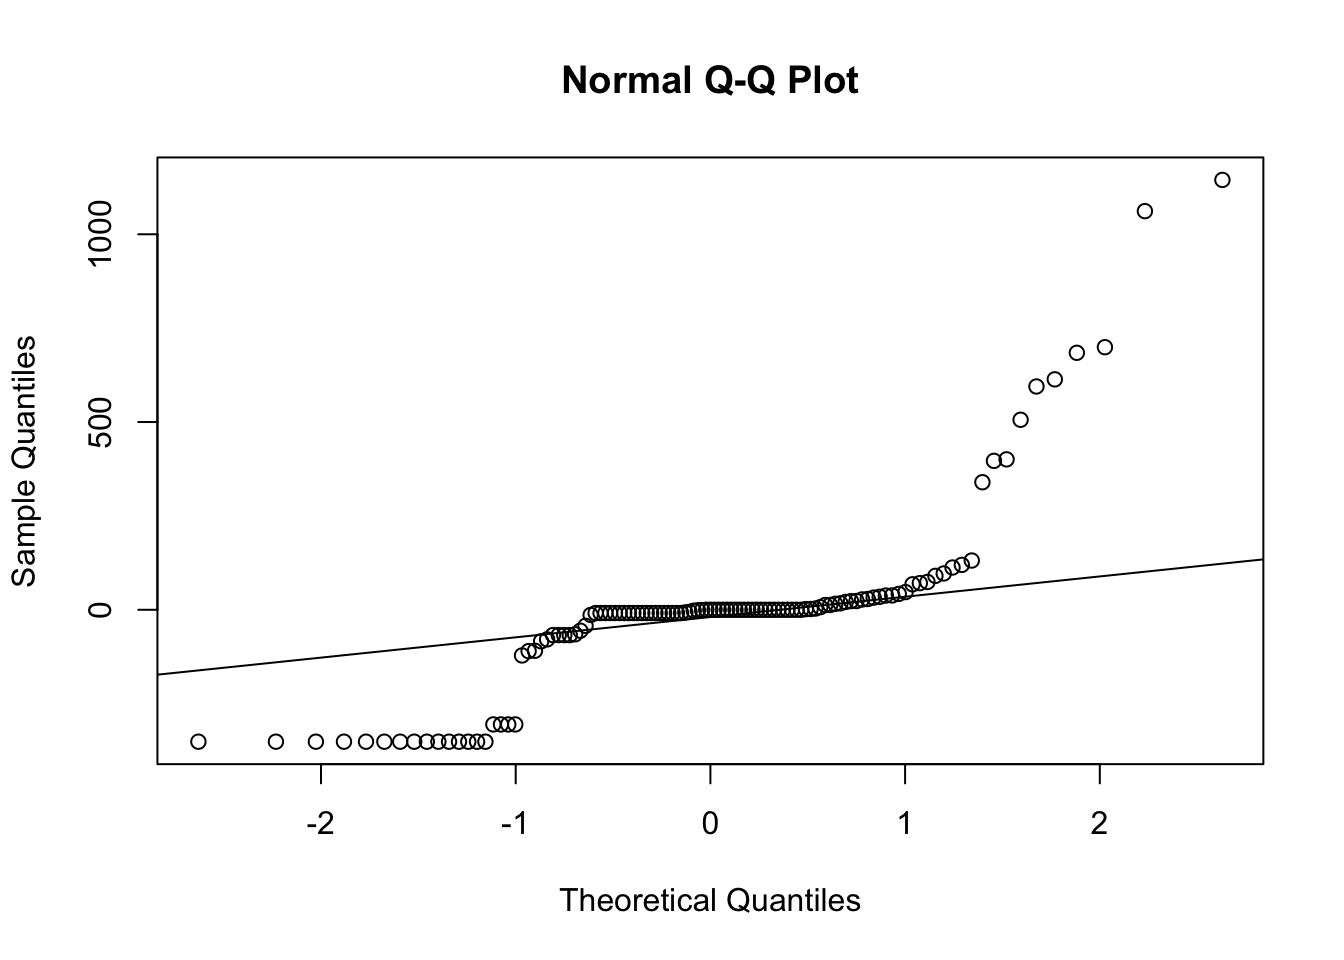
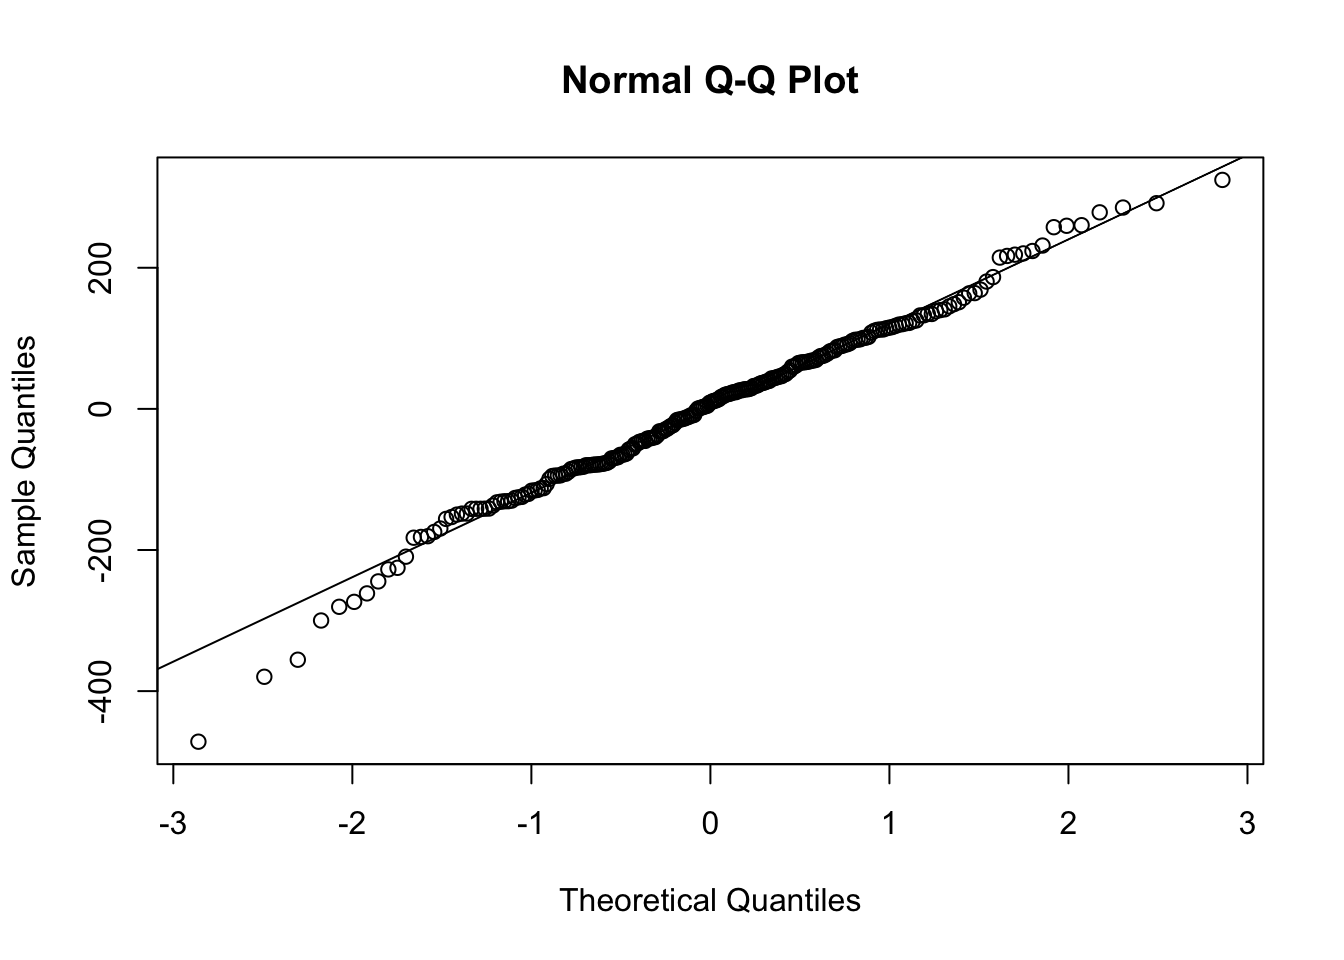
commiting after transfering the rat sightings ANOVA to this subtab

diff --git a/docs/sda.html b/docs/sda.html
@@ -13,7 +13,7 @@
 
 <title>sda.knit</title>
 
-<script src="site_libs/header-attrs-2.24/header-attrs.js"></script>
+<script src="site_libs/header-attrs-2.25/header-attrs.js"></script>
 <script src="site_libs/jquery-3.6.0/jquery-3.6.0.min.js"></script>
 <meta name="viewport" content="width=device-width, initial-scale=1" />
 <link href="site_libs/bootstrap-3.3.5/css/simplex.min.css" rel="stylesheet" />
@@ -303,9 +303,126 @@ $(document).ready(function () {
 <h2 class="tabset">Statistical Data Analysis</h2>
 <div id="rat-sightings-analysis" class="section level3">
 <h3>Rat Sightings Analysis</h3>
-<p>you can put your info here Youssra. just be sure that any heading you
-include in your section have more than 3 hashtags (“####” or more) so it
-doesnt mess up the tabs on the page</p>
+<div id="anova." class="section level4">
+<h4>ANOVA.</h4>
+<p>Analysis of variance of the average rat sightings we saw in the
+‘rat_boro’ kable output. We can see that there are differences in the
+average rat sightings across years and boros so we wanted to explore if
+thiese diferences were statistically significant through a ANOVA
+test.</p>
+<pre class="r"><code>rat_sightings = 
+  read_csv (&quot;./data/Rat_Sightings.csv&quot;) |&gt;
+  janitor::clean_names(case = &quot;snake&quot;) |&gt;
+  separate(created_date, sep=&quot;/&quot;, into = c(&quot;month&quot;, &quot;day&quot;, &quot;year&quot;)) |&gt; 
+  separate(year, sep=&quot; &quot;, into = c(&quot;year&quot;)) |&gt;
+  filter(borough != &quot;STATEN ISLAND&quot;) |&gt; 
+  filter(year %in% c(&quot;2019&quot;, &quot;2020&quot;, &quot;2021&quot;, &quot;2022&quot;, &quot;2023&quot;)) |&gt;
+  mutate(
+    borough_id = recode(
+      borough, 
+      &quot;MANHATTAN&quot; = 1,
+      &quot;BRONX&quot; =2,
+      &quot;BROOKLYN&quot;=3,
+      &quot;QUEENS&quot;= 4)) |&gt;
+  mutate(
+    month = as.numeric(month),
+    year = as.numeric(year)
+  ) |&gt;
+  select(unique_key, month, day, year, location_type, incident_zip, borough, location, borough_id) |&gt;
+  mutate(
+    borough = str_to_sentence(borough)
+  )
+rat_sightings_agg = rat_sightings |&gt; 
+  group_by(year, borough, month) |&gt; 
+  filter(borough != &quot;Unspecified&quot;) %&gt;% 
+  summarise(count = n())
+
+anova_result = aov(count ~ factor(year) * factor(borough), data = rat_sightings_agg) 
+broom::tidy(anova_result)</code></pre>
+<pre><code>## # A tibble: 4 × 6
+##   term                            df    sumsq   meansq statistic   p.value
+##   &lt;chr&gt;                        &lt;dbl&gt;    &lt;dbl&gt;    &lt;dbl&gt;     &lt;dbl&gt;     &lt;dbl&gt;
+## 1 factor(year)                     4 2185688.  546422.     33.0   1.86e-21
+## 2 factor(borough)                  3 6927195. 2309065.    139.    3.02e-50
+## 3 factor(year):factor(borough)    12  548327.   45694.      2.76  1.66e- 3
+## 4 Residuals                      216 3579973.   16574.     NA    NA</code></pre>
+<pre class="r"><code>anova_result_no_interaction = aov(count ~ factor(year) + factor(borough), data = rat_sightings_agg) 
+broom::tidy(anova_result_no_interaction)</code></pre>
+<pre><code>## # A tibble: 3 × 6
+##   term               df    sumsq   meansq statistic   p.value
+##   &lt;chr&gt;           &lt;dbl&gt;    &lt;dbl&gt;    &lt;dbl&gt;     &lt;dbl&gt;     &lt;dbl&gt;
+## 1 factor(year)        4 2185688.  546422.      30.2  3.72e-20
+## 2 factor(borough)     3 6927195. 2309065.     128.   1.63e-48
+## 3 Residuals         228 4128300.   18107.      NA   NA</code></pre>
+<p>We want to check the assumptions for the ANOVA models ran above.
+There are three assumptions that should be met when computing an
+ANOVA:</p>
+<p>-The response variable must be quantitative- This is met since the
+response variable of count of rat sightings is quantitative. -The
+variance between the groups of average rat sightings by borough and by
+year should be similar and in this case they are. -Observations should
+be independent of one another- which we are assuming is satisfied. -The
+distribution of values within each group of rat sightings by borough is
+normally distributed which we can see in some of the plots. We can also
+check the normality of residuals in the below code. From the Normal Q-Q
+plot of both model residuals the points are quite close to the fitted
+diagonal line. We also conducted Shapiro-Wilk tests for normality of
+residuals for both models and with a null hypothesis that the residuals
+follow a normal distribution and an alternative hypothesis that the
+residuals does not follow a normal distribution. The p-value for the no
+interaction model is 0.2694 and the p-value for the interaction model is
+0.03883. At a 5% level of significance we can conclude the residuals of
+the interaction model follow a normal distribution but the residuals for
+the no interaction model do not follow a normal distribution.
+###Checking assumptions of ANOVA</p>
+<pre class="r"><code># Extract residuals for the interaction model
+residuals_interaction &lt;- residuals(anova_result)
+
+# Check normality of residuals for the interaction model
+qqnorm(anova_result$residuals)
+qqline(anova_result$residuals)</code></pre>
+<p><img src="sda_files/figure-html/unnamed-chunk-1-1.png" width="672" /></p>
+<pre class="r"><code># Shapiro-Wilk test for normality
+shapiro.test(anova_result$residuals)</code></pre>
+<pre><code>## 
+##  Shapiro-Wilk normality test
+## 
+## data:  anova_result$residuals
+## W = 0.98759, p-value = 0.03883</code></pre>
+<pre class="r"><code># Extract residuals for the interaction model
+residuals_no_interaction &lt;- residuals(anova_result_no_interaction)
+
+# Check normality of residuals for the model without interaction
+qqnorm(residuals_no_interaction)
+qqline(residuals_no_interaction)</code></pre>
+<p><img src="sda_files/figure-html/unnamed-chunk-1-2.png" width="672" /></p>
+<pre class="r"><code># Shapiro-Wilk test for normality
+shapiro.test(anova_result_no_interaction$residuals)</code></pre>
+<pre><code>## 
+##  Shapiro-Wilk normality test
+## 
+## data:  anova_result_no_interaction$residuals
+## W = 0.99244, p-value = 0.2694</code></pre>
+<pre class="r"><code># Shapiro-Wilk test for normality
+shapiro.test(residuals_no_interaction)</code></pre>
+<pre><code>## 
+##  Shapiro-Wilk normality test
+## 
+## data:  residuals_no_interaction
+## W = 0.99244, p-value = 0.2694</code></pre>
+<pre class="r"><code># Check homoscedasticity for the interaction model
+plot(anova_result$model)
+
+# Check homoscedasticity for the model without interaction
+plot(anova_result_no_interaction$model)</code></pre>
+<p><img src="sda_files/figure-html/unnamed-chunk-1-3.png" width="672" /></p>
+<p>From the ANOVA test for the model with the interaction which is the
+model that checked all of the assumptions of an ANOVA test above we can
+see from the p-value of being &lt;0.001 at 5% level of significance we
+can reject the null hypotheses and conclude that at least one of the
+average rat sightings by borough and by year are statistically
+different.</p>
+</div>
 </div>
 <div id="waste-tonnage-analysis" class="section level3">
 <h3>Waste Tonnage Analysis</h3>
@@ -351,10 +468,10 @@ anova_result_refuse &lt;- broom::tidy(anova_model_refuse)</code></pre>
 <pre class="r"><code># Normality check with Q-Q plots
 qqnorm(anova_model_organics$residuals)
 qqline(anova_model_organics$residuals)</code></pre>
-<p><img src="sda_files/figure-html/unnamed-chunk-3-1.png" width="672" /></p>
+<p><img src="sda_files/figure-html/unnamed-chunk-4-1.png" width="672" /></p>
 <pre class="r"><code>qqnorm(anova_model_refuse$residuals)
 qqline(anova_model_refuse$residuals)</code></pre>
-<p><img src="sda_files/figure-html/unnamed-chunk-3-2.png" width="672" /></p>
+<p><img src="sda_files/figure-html/unnamed-chunk-4-2.png" width="672" /></p>
 <pre class="r"><code># Homogeneity of variances check with Bartlett&#39;s test
 bartlett_test_organics &lt;- bartlett.test(total_organics ~ borough, data = waste_tonnage)
 bartlett_test_refuse &lt;- bartlett.test(total_refuse ~ borough, data = waste_tonnage)</code></pre>
